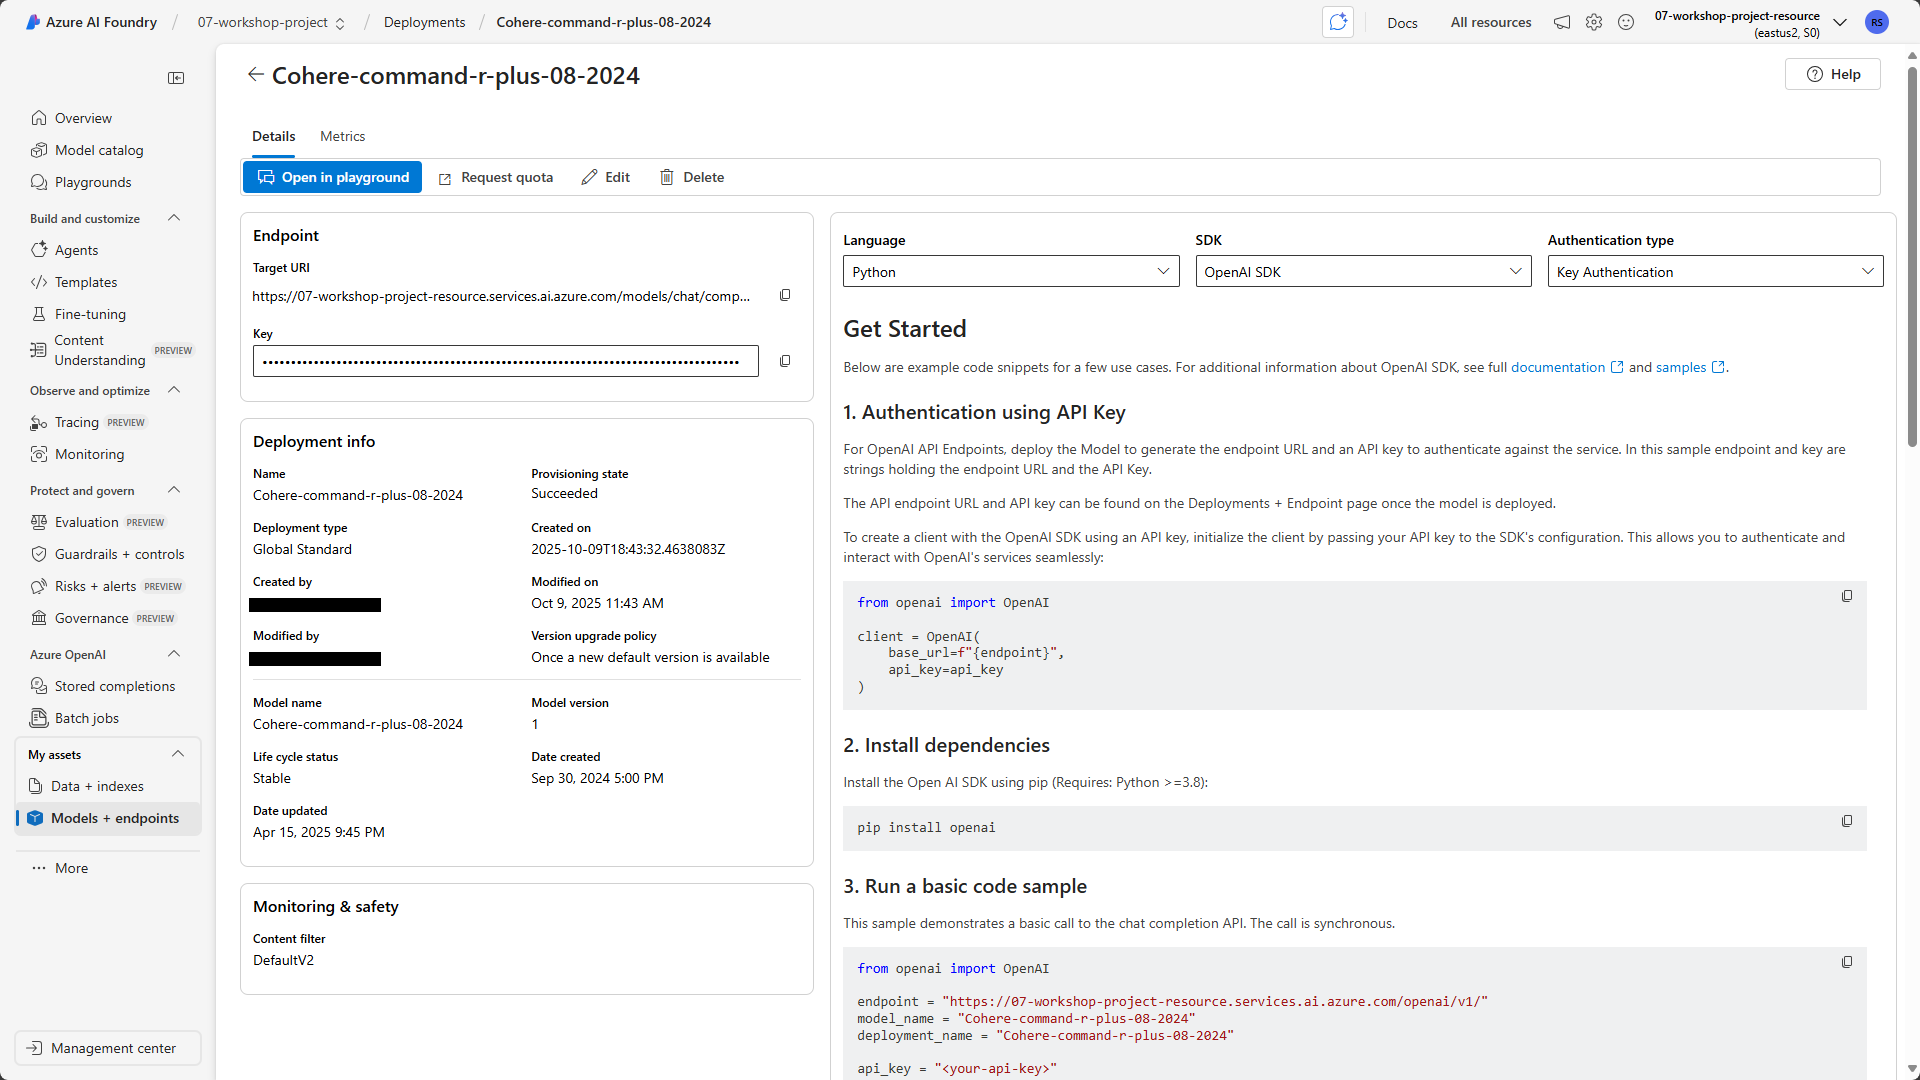
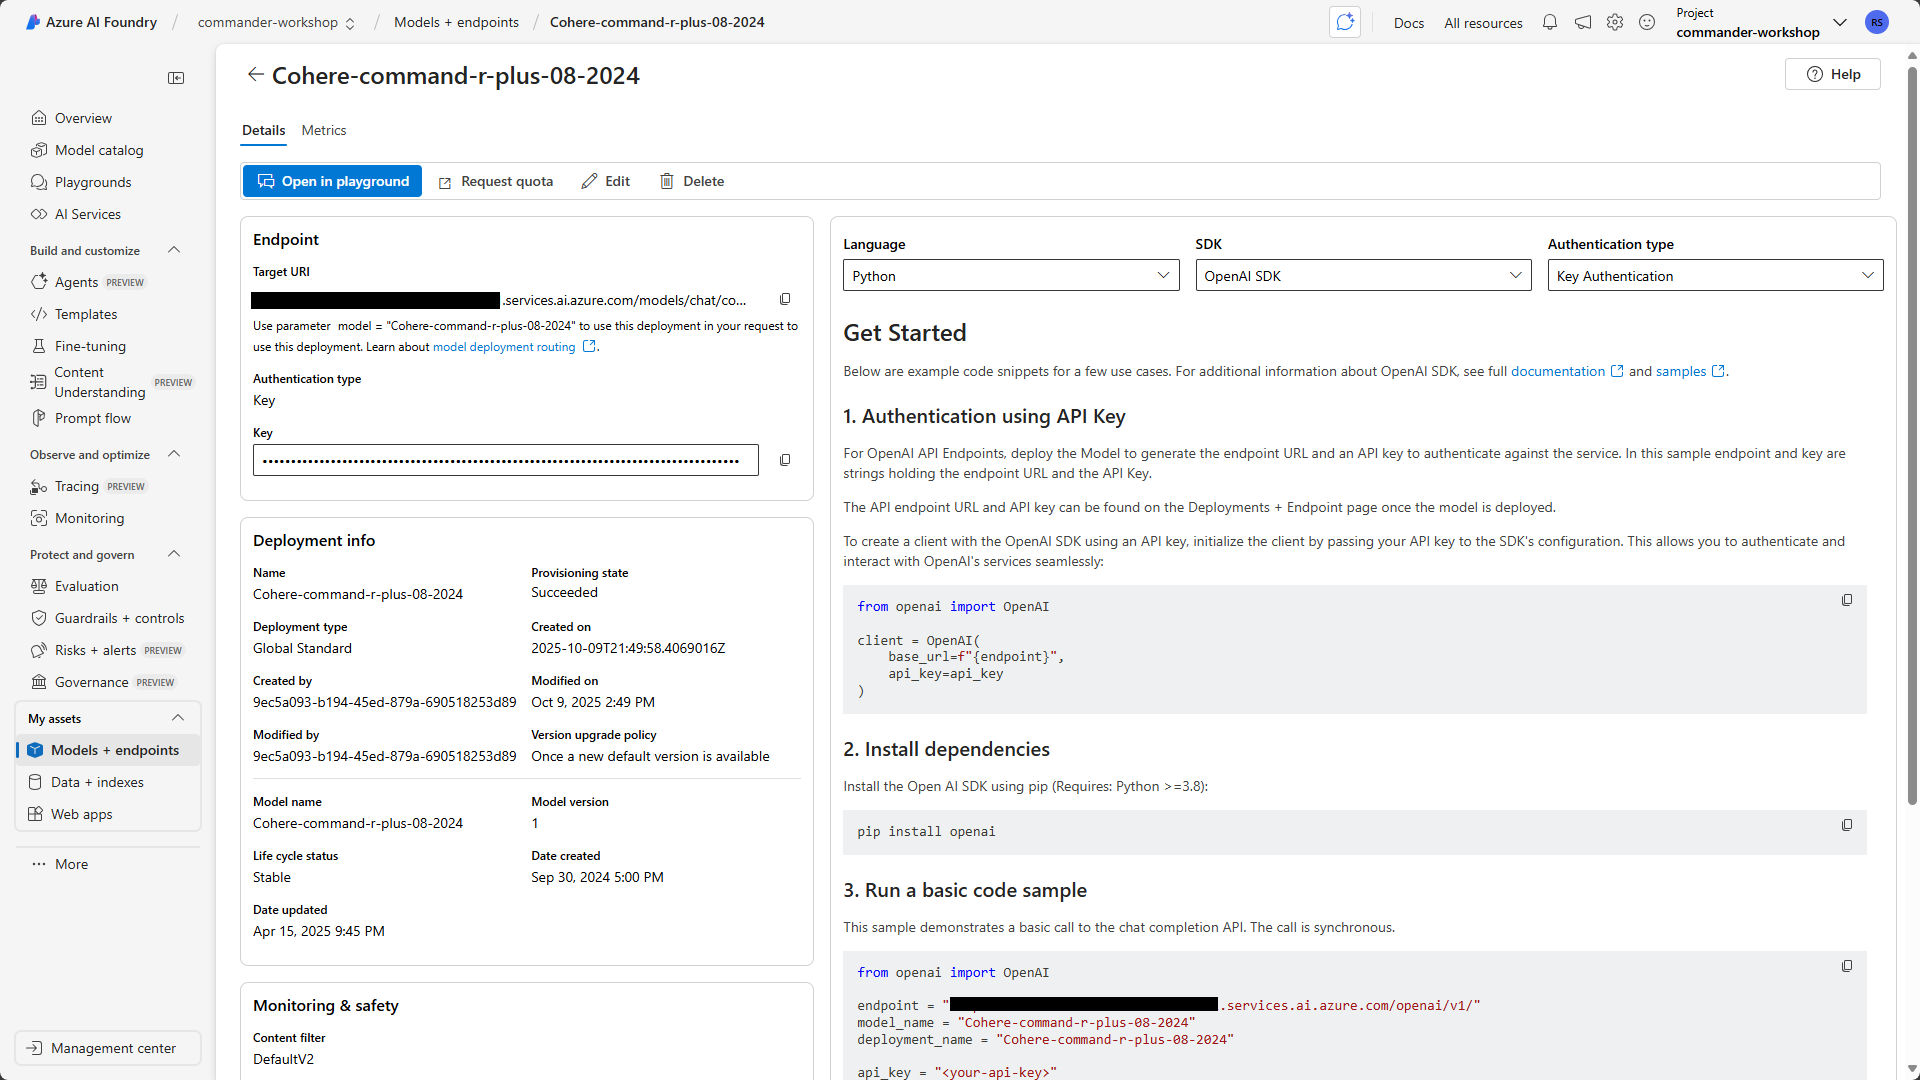
Fixed Lab 1

diff --git a/docs/commander/07-extend-with-azure-ai/README.md b/docs/commander/07-extend-with-azure-ai/README.md
@@ -247,75 +247,63 @@ In this lab, you'll put BYOM into practice by deploying an AI model that you wil
 
 1. Sample documents from [IT documentation](https://download-directory.github.io/?url=https://github.com/RobStand/agent-academy/tree/main/docs/commander/07-extend-with-azure-ai/assets/it-documentation&filename=commander_sampledata).
 
-### 7.1.1: Select the model from the Model Catalog
+### 7.1.1: Create AI Foundry resources
 
 1. Navigate to [Azure AI Foundry](https://ai.azure.com) and sign in with your Azure credentials.
     ![Navigate to AI Foundry](./assets/7-navigate-ai-foundry.png)
 
-1. Select **Go to full model catalog** and search for `Cohere-command-r-plus`. Cohere Command R+ is the ideal model choice for this scenario because it is specifically designed for document Q&A. It is excellent at technical and policy language, automatically generates accurate inline citations, stays faithful to source documents, minimizing hallucinations, and handles lengthy policy documents with ease.
+1. Once you are logged in, navigate to [All resources](https://ai.azure.com/allResources) in AI Foundry.
 
-    Select the `Cohere-command-r-plus-08-2024` model.
-    ![Search model catalog](./assets/7-search-model-catalog.png)
+    Select **Create new**. Choose `AI hub resource` and select **Next**.
+    ![Create new AI hub resource](./assets/7-create-ai-hub-resource.png)
 
-1. The model details for `Cohere-command-r-plus-08-2024` will be displayed, including information about the model, supported languages, model architecture, and pricing.
-
-    Select **Use this model**.
-    ![Use Cohere model](./assets/7-use-the-model.png)
-
-### 7.1.2: Create an AI Foundry project
-
-1. Before AI Foundry can deploy your model, you need to create an AI Foundry project.
-
-    Enter a name for your AI Foundry project. Expand **Advanced options** if you want to specify options, such as a specific resource group name. For this lab, you can accept the defaults.
+1. Name your project `commander-workshop`. Rename the hub `commander-hub`. Expand **Advanced options** if you want to specify options, such as a specific resource group name. For this lab, you can accept the defaults.
 
     Select **Create**.
     ![Create AI Foundry project](./assets/7-create-ai-foundry-project.png)
 
-### 7.1.3: Deploy the model
+### 7.1.2: Deploy a model
+
+Now that you have AI Foundry resources set up, you can deploy a model.
+
+We're using `Cohere Command R+` because is the ideal model choice for this scenario. It is specifically designed for document Q&A. It is excellent at technical and policy language and automatically generates accurate inline citations. It stays faithful to source documents, minimizing hallucinations, and handles lengthy policy documents with ease.
+
+1. In the left-hand navigation, select **Models + endpoints**.
+
+1. Select **Deploy model**, then select **Deploy base model**.
+
+    ![Deploy base model](./assets/7-deploy-base-model.png)
+
+1. Search for `Cohere-command-r-plus`.
+
+    Select the `Cohere-command-r-plus-08-2024` model and select **Confirm**.
+    ![Search model catalog](./assets/7-search-model-catalog.png)
 
 1. Because `Cohere-command-r-plus` is available through the Azure Marketplace, AI Foundry will ask you to agree to the Terms of use to proceed with the deployment.
 
     Select **Agree and Proceed**.
     ![Deploy from Azure Marketplace](./assets/7-deploy-from-marketplace.png)
 
-1. The deployment name will appear in Copilot Studio when you connect to it later, so you will want a memorable name that helps you identify the model easily.
-
-    Leave the default **Deployment name** as `Cohere-command-r-plus-08-2024`.
+1. Leave the default **Deployment name** as `Cohere-command-r-plus-08-2024`. The deployment name will appear in Copilot Studio when you connect to it later, so you will want a memorable name that helps you identify the model easily.
 
     Select **Deploy**.
     ![Deploy model](./assets/7-deploy-model.png)
 
-1. AI Foundry displays the details of your model deployment. Your deployed model is accessible through **Models + endpoints** in the navigation on the left.
+1. AI Foundry displays the details of your model deployment. Note the following information from the model deployment, as you'll need it later:
 
-    Note the following information from the model deployment, as you'll need it later:
-
-    - **Endpoint URL**
-    - **API Key**
-    - **Deployment name**
+    - **Target URI**: This is the URL for our model's endpoint.
+    - **API Key**: This is the primary key for authentication.
+    - **Deployment name**: This is the name you chose (or left default) when deploying the model.
 
     ![Deployment complete](./assets/7-model-deployment-details.png)
 
 **Important:** Keep your API key secure. Don't share it or commit it to source control.
 
-### 7.1.4: Test the model
-
-You can test the model in Azure AI Foundry before integrating it with Copilot Studio.
-
-1. In the deployed model details page, select **Open in playground**.
-
-1. Try a simple prompt: `What are the key components of a good password policy?`
-
-1. Review the response from the model. Note that, while the recommendations are good, they are general in nature.
-
-    ![Test prompt in Playground](./assets/7-test-prompt-in-playground.png)
-
-You've successfully deployed Cohere Command R+, a model specifically optimized for the RAG scenario you're building. In the next lab, you'll connect both your AI Search index and this model to Copilot Studio.
-
-#### Lab 7.2: Create Azure AI Search resource in Azure AI Foundry
+### Lab 7.2: Create Azure AI Search resource in Azure AI Foundry
 
 1. Navigate to **Azure AI Foundry** at <https://ai.azure.com> and sign in with your Azure credentials.
 
-    ![Navigate to AI Foundry](./assets/lab1_01_NavigateToAIFoundry.png)
+    ![Navigate to AI Foundry](./assets/7-navigate-ai-foundry.png)
 
 1. Select your existing project or create a new one by clicking **+ New project**.
 
@@ -504,7 +492,7 @@ Before moving forward, verify that your index is working correctly.
 
 Excellent work! You've successfully created an Azure AI Search index with vector embeddings. Your IT policy documents are now searchable and ready to be used as a knowledge source for your Copilot.
 
-### Lab 3: Configure Copilot Studio with Azure AI capabilities
+### Lab 7.3: Configure Copilot Studio with Azure AI capabilities
 
 In this exercise, you'll create a Copilot in Copilot Studio and connect both your Azure AI Search knowledge source and Cohere Command R+ model to create an intelligent IT Policy Assistant.
 
